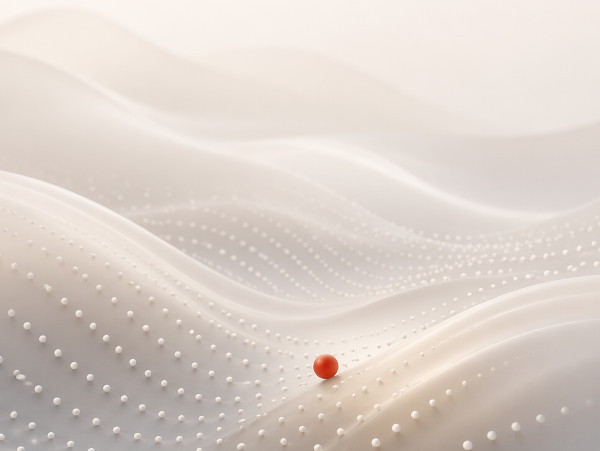
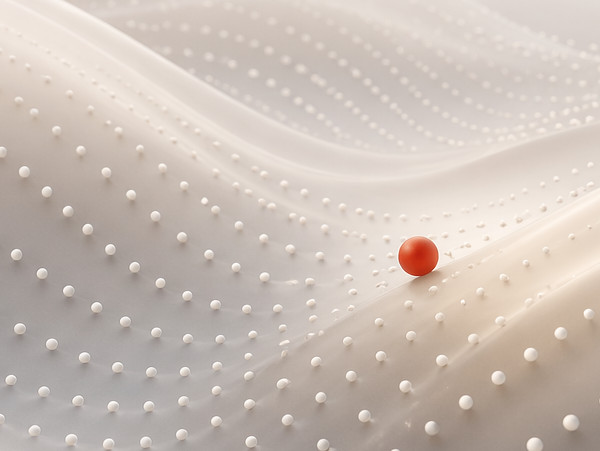
Typo, Image Replacing

diff --git a/index.html b/index.html
@@ -1567,7 +1567,7 @@
         - #PUBLICATIONS - 2026
       -->
 
-      <li class="project-item active" data-filter-item data-category="anomay detection">
+      <li class="project-item active" data-filter-item data-category="anomaly detection">
               <a href="" target="_blank" rel="noopener noreferrer">
                 <figure class="project-img">
                   <div class="project-item-icon-box">